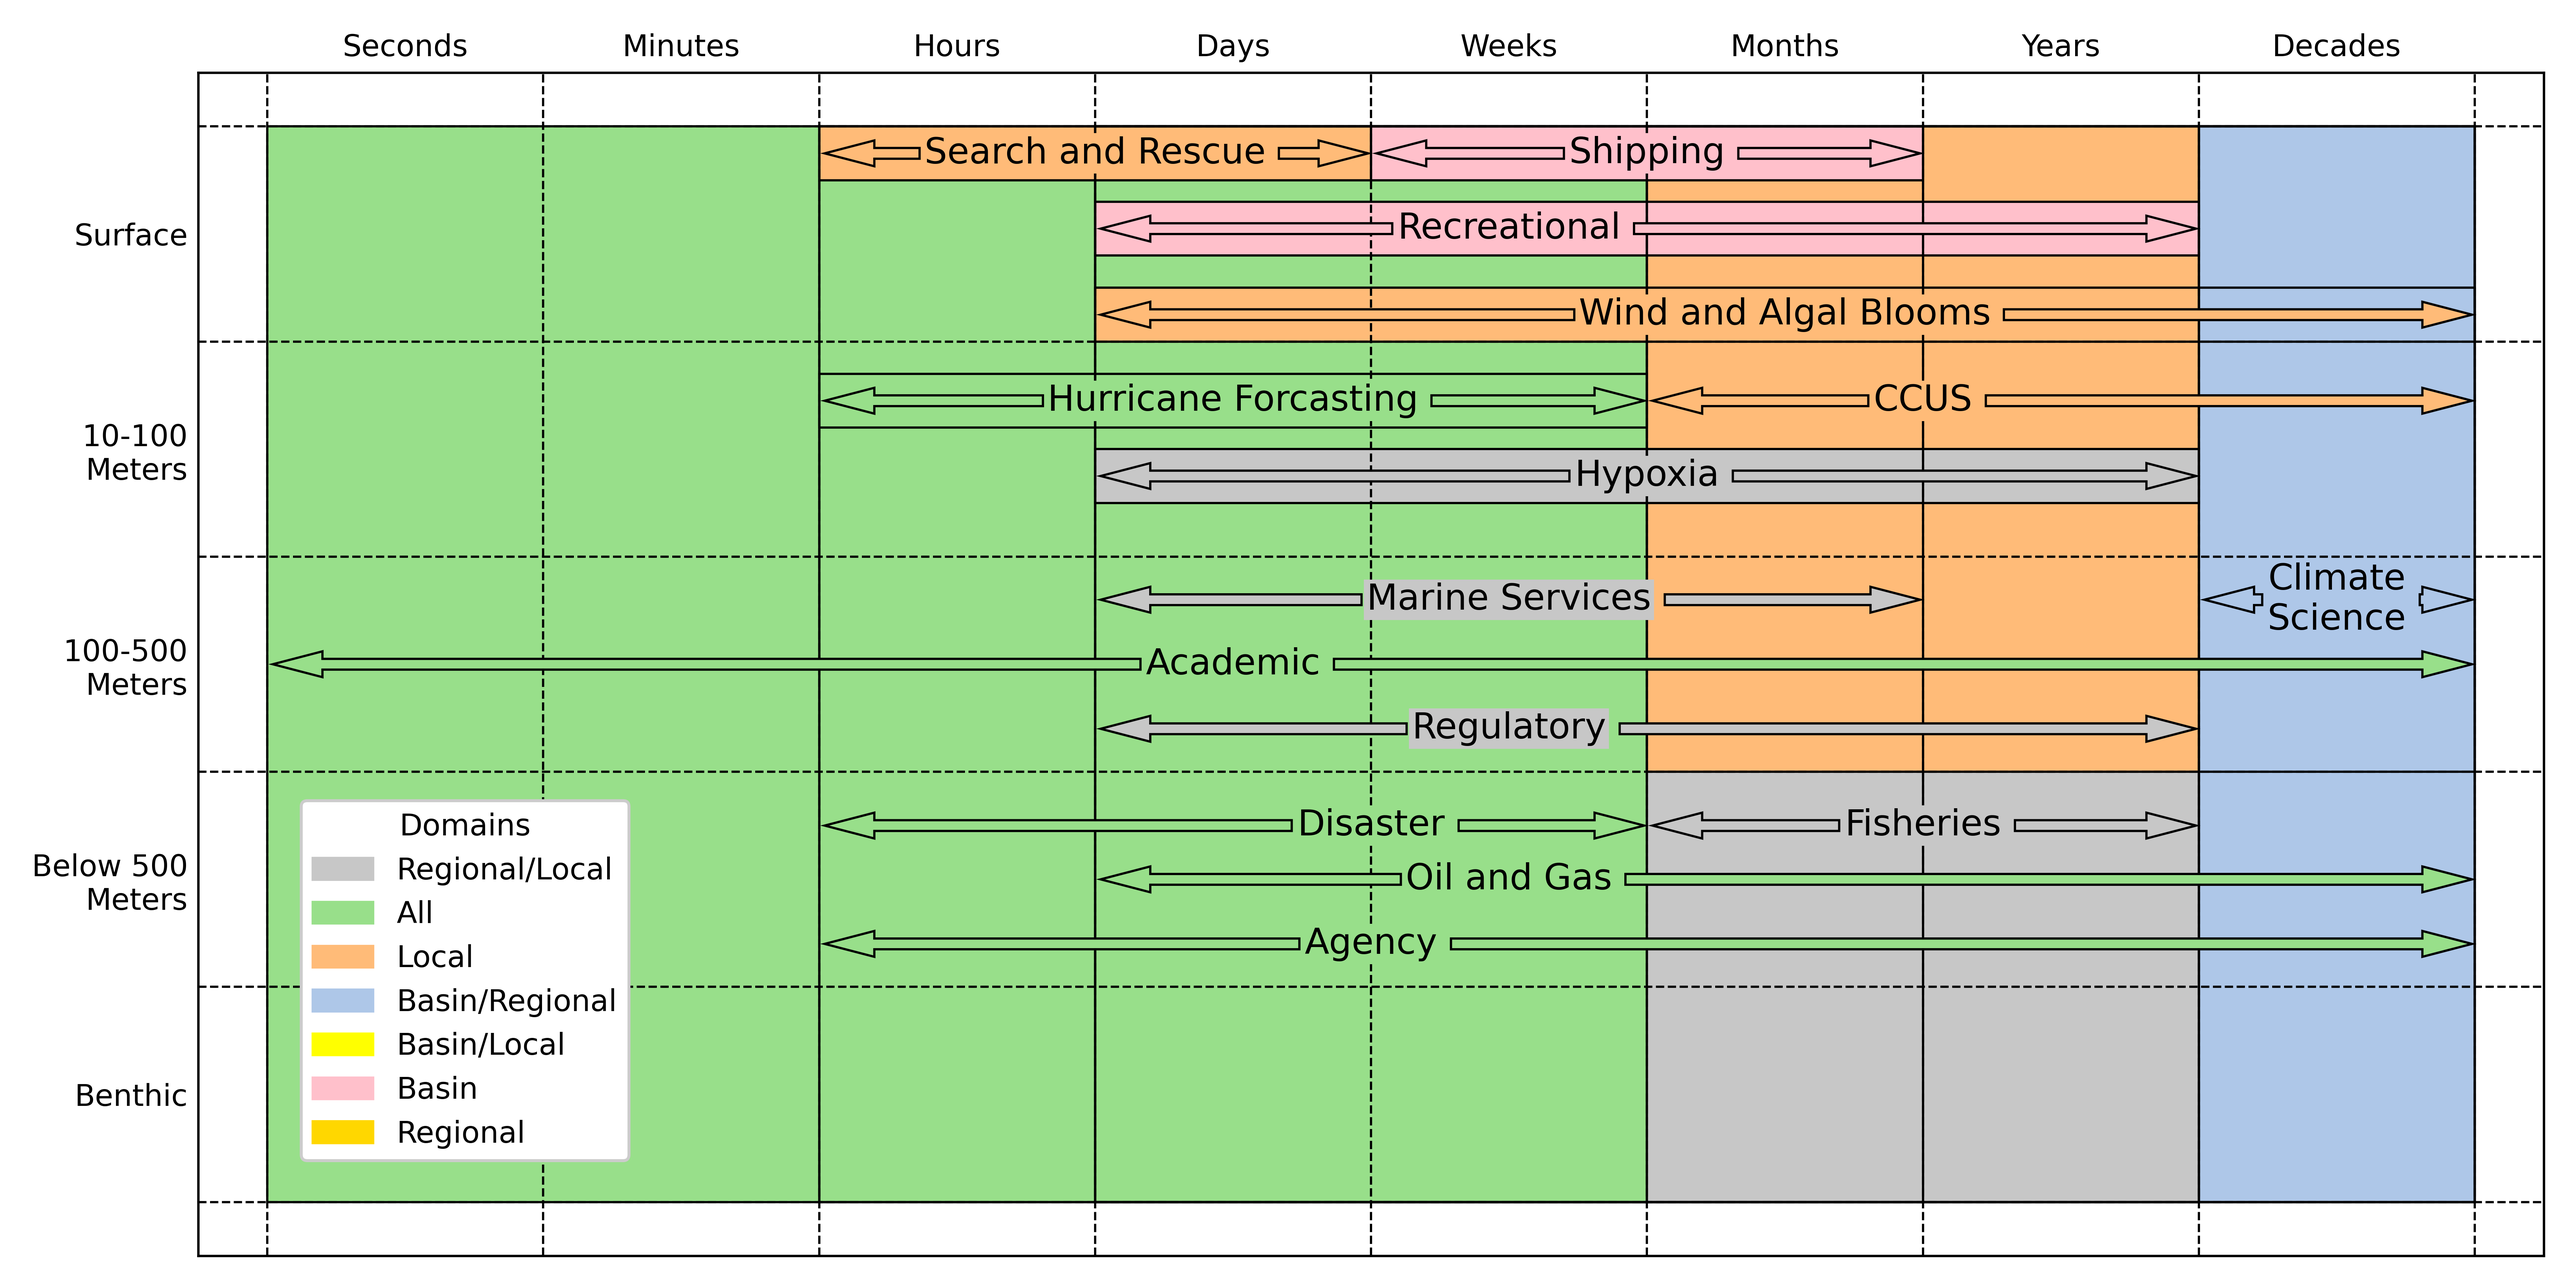
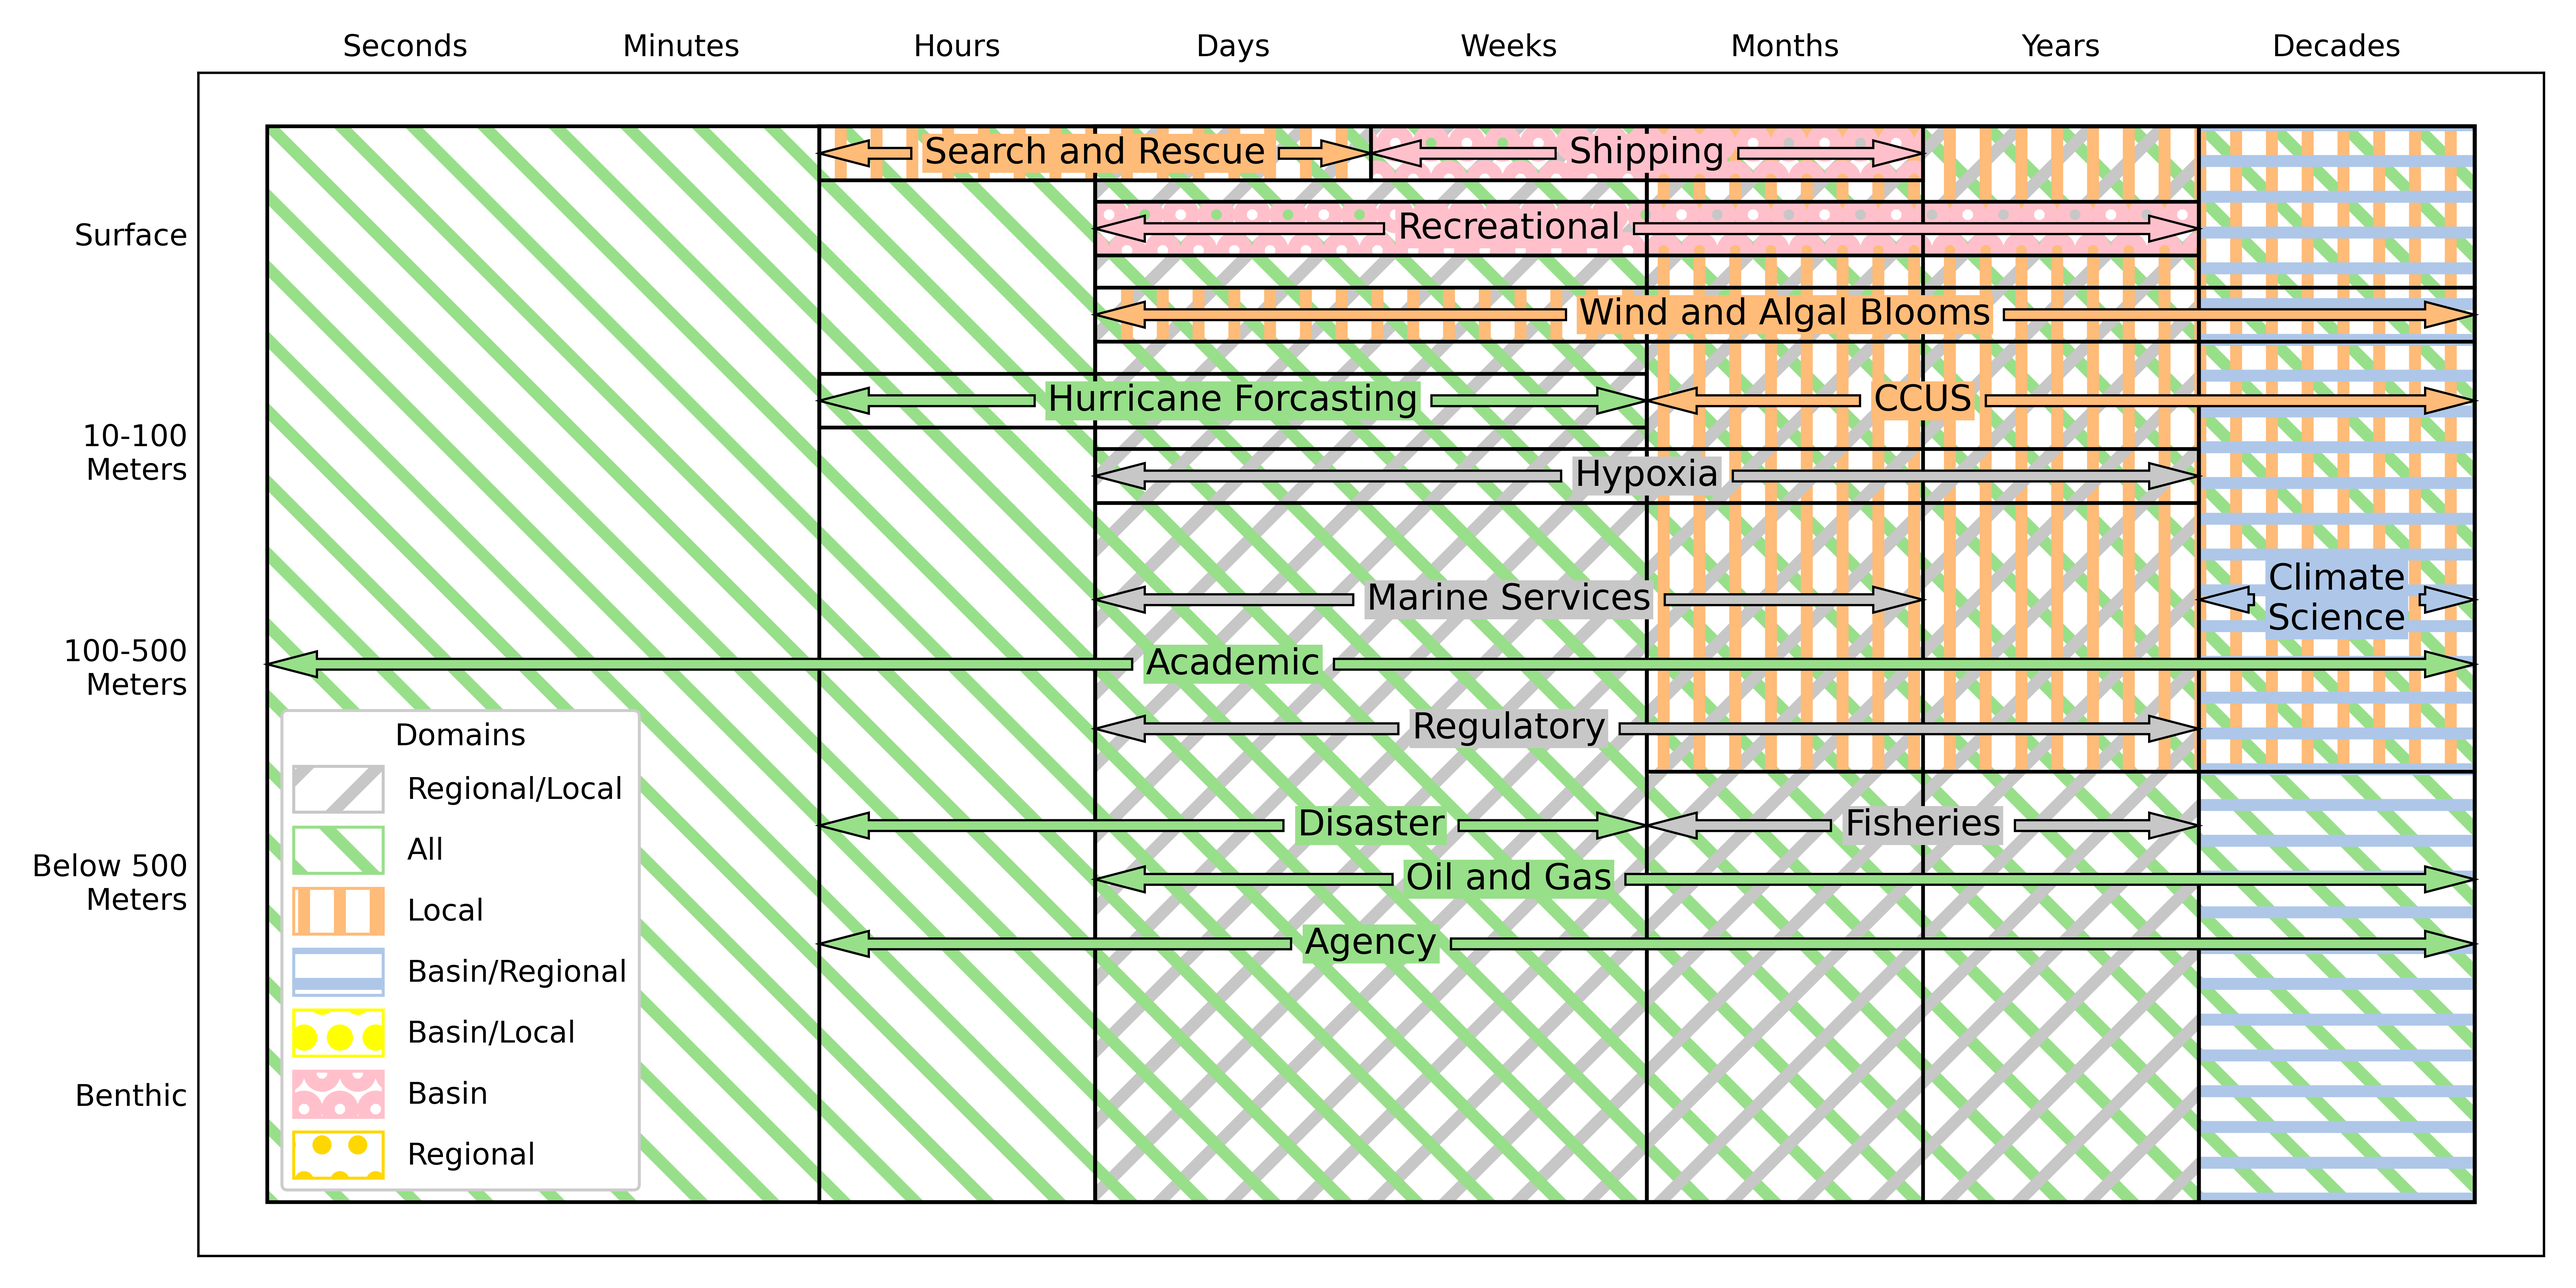
update example

diff --git a/src/gerg_plotting/examples/coverage_plot_example.py b/src/gerg_plotting/examples/coverage_plot_example.py
@@ -6,53 +6,55 @@ import matplotlib.pyplot as plt
 
 def coverage_plot_example():
     cmap = plt.get_cmap('tab20')
-    # domains = create_combinations_with_underscore(['Basin', 'Regional', 'Local'])
-    # domains.extend(['All'])
-    # print(domains)
     domains = ['Regional_Local', 'All', 'Local', 'Basin_Regional', 'Basin_Local', 'Basin', 'Regional']
     colors_light = [cmap(15),cmap(5),cmap(3),cmap(1),'yellow','pink','gold']
-    colors_dark = [cmap(14),cmap(4),cmap(2),cmap(0),'yellow','pink','gold']
 
     colors = colors_light
     domain_colors = {key:value for key,value in zip(domains,colors)}
+
+    hatch_styles = ['/', '\\', '|', '-', 'o', 'O', '.', '*',
+                    '//', '\\\\', '||', '--', '++', 'xx', 'oo', 'OO', '..', '**', '/o', 
+                    '\\|', '|*', '-\\', '+o', 'x*', 'o-', 'O|', 'O.', '*-']
+
+    domain_hatches = {key:value for key,value in zip(domains,hatch_styles)}
     # Define the x and y labels
-    x_labels = ['Seconds','Minutes','Hours','Days','Weeks','Months','Years','Decades']
-    y_labels = ['Surface','10-100\nMeters','100-500\nMeters','Below 500\nMeters','Benthic']
+    xlabels = ['Seconds','Minutes','Hours','Days','Weeks','Months','Years','Decades']
+    ylabels = ['Surface','10-100\nMeters','100-500\nMeters','Below 500\nMeters','Benthic']
+
+    # Define the default plotting parameters
+    plotting_kwargs = {'arrow_facecolor':'hatch_color','body_color':'none','label_fontsize':12,'label_background_pad':0.75,
+                    'label_background_color':'hatch_color','arrow_linewidth':0.75,'hatch_linewidth':4,'outline_linewidth':1.25}
+
     # Init the coverage plotter
-    plotter = CoveragePlot(figsize=(12,6),x_labels=x_labels,y_labels=y_labels,
-                           grid_color='k',grid_linestyle='--',grid_linewidth=0.75,
-                           arrow_facecolor='coverage_facecolor',arrow_linewidth=0.75,arrow_width=0.05,arrow_head_width=0.12,
-                           coverage_fontsize=12,coverage_linewidth=0.75,coverage_alpha=1,coverage_min_rectangle_height=0.25,
-                           coverage_label_background_pad=1,coverage_hatch_linewidth=1.5)
+    plotter = CoveragePlot(figsize=(12,6),xlabels=xlabels,ylabels=ylabels,plotting_kwargs=plotting_kwargs)
     # All Depths
-    plotter.add_coverage(['Hours','Decades'],['Surface','Benthic'],label='Agency',label_position=(4,3.3),fc=domain_colors['All'])
-    plotter.add_coverage(['Seconds','Decades'],['Surface','Benthic'],label='Academic',label_position=(3.5,2),fc=domain_colors['All'])
-    plotter.add_coverage(['Days','Months'],['Surface','Benthic'],label='Marine Services',label_position=(4.5,1.7),fc=domain_colors['Regional_Local'])
-    plotter.add_coverage(['Days','Years'],['Surface','Benthic'],label='Regulatory',label_position=(4.5,2.3),fc=domain_colors['Regional_Local'])
-    plotter.add_coverage(['Days','Decades'],['Surface','Benthic'],label='Oil and Gas',label_position=(4.5,3),fc=domain_colors['All'])
-    plotter.add_coverage(['Months','Years'],['Surface','Benthic'],label='Fisheries',label_position=(6,2.75),fc=domain_colors['Regional_Local'])
-    plotter.add_coverage(['Hours','Weeks'],['Surface','Benthic'],label='Disaster',label_position=(4,2.75),fc=domain_colors['All'])
+    plotter.add_coverage(['Hours','Decades'],['Surface','Benthic'],label='Agency',label_position=(4,3.3),hatch_color=domain_colors['All'],hatch=domain_hatches['All'])
+    plotter.add_coverage(['Seconds','Decades'],['Surface','Benthic'],label='Academic',label_position=(3.5,2),hatch_color=domain_colors['All'],hatch=domain_hatches['All'])
+    plotter.add_coverage(['Days','Months'],['Surface','Benthic'],label='Marine Services',label_position=(4.5,1.7),hatch_color=domain_colors['Regional_Local'],hatch=domain_hatches['Regional_Local'])
+    plotter.add_coverage(['Days','Years'],['Surface','Benthic'],label='Regulatory',label_position=(4.5,2.3),hatch_color=domain_colors['Regional_Local'],hatch=domain_hatches['Regional_Local'])
+    plotter.add_coverage(['Days','Decades'],['Surface','Benthic'],label='Oil and Gas',label_position=(4.5,3),hatch_color=domain_colors['All'],hatch=domain_hatches['All'])
+    plotter.add_coverage(['Months','Years'],['Surface','Benthic'],label='Fisheries',label_position=(6,2.75),hatch_color=domain_colors['Regional_Local'],hatch=domain_hatches['Regional_Local'])
+    plotter.add_coverage(['Hours','Weeks'],['Surface','Benthic'],label='Disaster',label_position=(4,2.75),hatch_color=domain_colors['All'],hatch=domain_hatches['All'])
     # Surface
-    plotter.add_coverage(['Hours','Days'],[-0.5,-0.5],label='Search and Rescue',fc=domain_colors['Local'])
-    plotter.add_coverage(['Days','Decades'],[0.25,0.25],label='Wind and Algal Blooms',fc=domain_colors['Local'])
+    plotter.add_coverage(['Hours','Days'],[-0.5,-0.5],label='Search and Rescue',hatch_color=domain_colors['Local'],hatch=domain_hatches['Local'])
+    plotter.add_coverage(['Days','Decades'],[0.25,0.25],label='Wind and Algal Blooms',hatch_color=domain_colors['Local'],hatch=domain_hatches['Local'])
     # 10-100m
-    plotter.add_coverage(['Months','Decades'],['Surface','100-500 Meters'],label='CCUS',label_position=(6,0.775),fc=domain_colors['Local'])
-    plotter.add_coverage(['Hours','Weeks'],[0.65,0.65],label='Hurricane Forcasting',fc=domain_colors['All'])
-    plotter.add_coverage(['Days','Years'],[1,1],label='Hypoxia',fc=domain_colors['Regional_Local'])
+    plotter.add_coverage(['Months','Decades'],['Surface','100-500 Meters'],label='CCUS',label_position=(6,0.775),hatch_color=domain_colors['Local'],hatch=domain_hatches['Local'])
+    plotter.add_coverage(['Hours','Weeks'],[0.65,0.65],label='Hurricane Forcasting',hatch_color=domain_colors['All'],hatch=domain_hatches['All'])
+    plotter.add_coverage(['Days','Years'],[1,1],label='Hypoxia',hatch_color=domain_colors['Regional_Local'],hatch=domain_hatches['Regional_Local'])
 
-    plotter.add_coverage('Decades',['Surface','Benthic'],label='Climate\nScience',label_position=(7.5,1.7),fc=domain_colors['Basin_Regional'])
-    plotter.add_coverage(['Weeks','Months'],[-0.5,-0.5],label='Shipping',fc=domain_colors['Basin'])
-    plotter.add_coverage(['Days','Years'],[-0.15,-0.15],label='Recreational',label_position=(4.5,-0.025),fc=domain_colors['Basin'])
+    plotter.add_coverage('Decades',['Surface','Benthic'],label='Climate\nScience',label_position=(7.5,1.7),hatch_color=domain_colors['Basin_Regional'],hatch=domain_hatches['Basin_Regional'])
+    plotter.add_coverage(['Weeks','Months'],[-0.5,-0.5],label='Shipping',hatch_color=domain_colors['Basin'],hatch=domain_hatches['Basin'])
+    plotter.add_coverage(['Days','Years'],[-0.15,-0.15],label='Recreational',label_position=(4.5,-0.025),hatch_color=domain_colors['Basin'],hatch=domain_hatches['Basin'])
 
+    plotter.plot(show_grid=False)
 
-    plotter.plot(with_hatches=True)
-
-    handles = custom_legend_handles(domain_colors.keys(),domain_colors.values())
-    plotter.fig.legend(handles=handles,bbox_to_anchor=(0.25, 0.39),framealpha=1,title='Domains')
+    handles = custom_legend_handles(domain_colors.keys(),domain_colors.values(),hatches=domain_hatches.values(),color_hatch_not_background=True)
+    plotter.fig.legend(handles=handles,bbox_to_anchor=(0.254, 0.46),framealpha=1,title='Domains',handleheight=2, handlelength=3)
 
     plotter.fig.tight_layout()
 
-    # plotter.fig.savefig('example_plots/coverage_plot_example_with_hatches1.png',dpi=600)
+    plotter.fig.savefig('example_plots/coverage_plot_example.png',dpi=600)
 
 
 if __name__ == "__main__":
